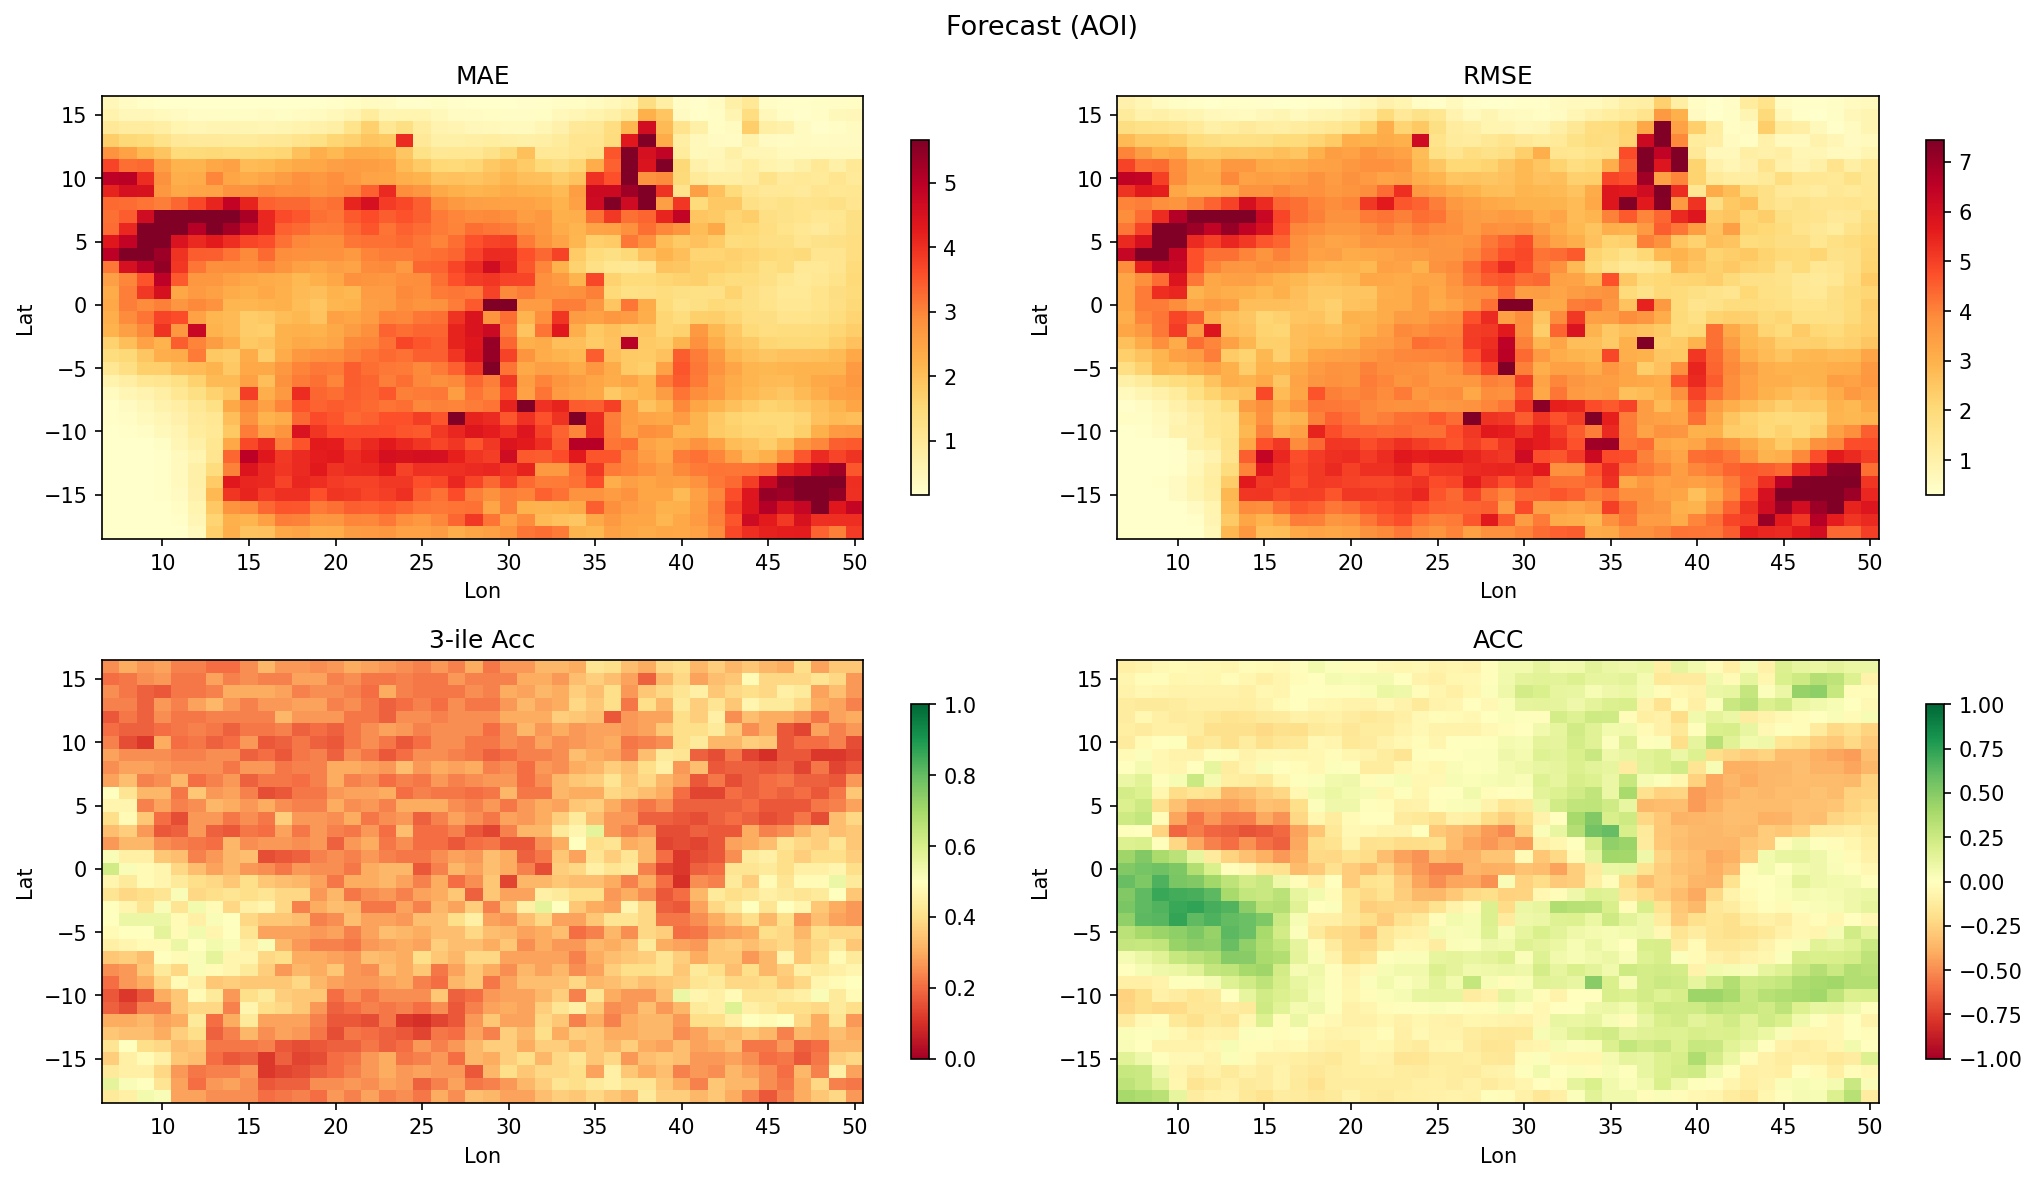
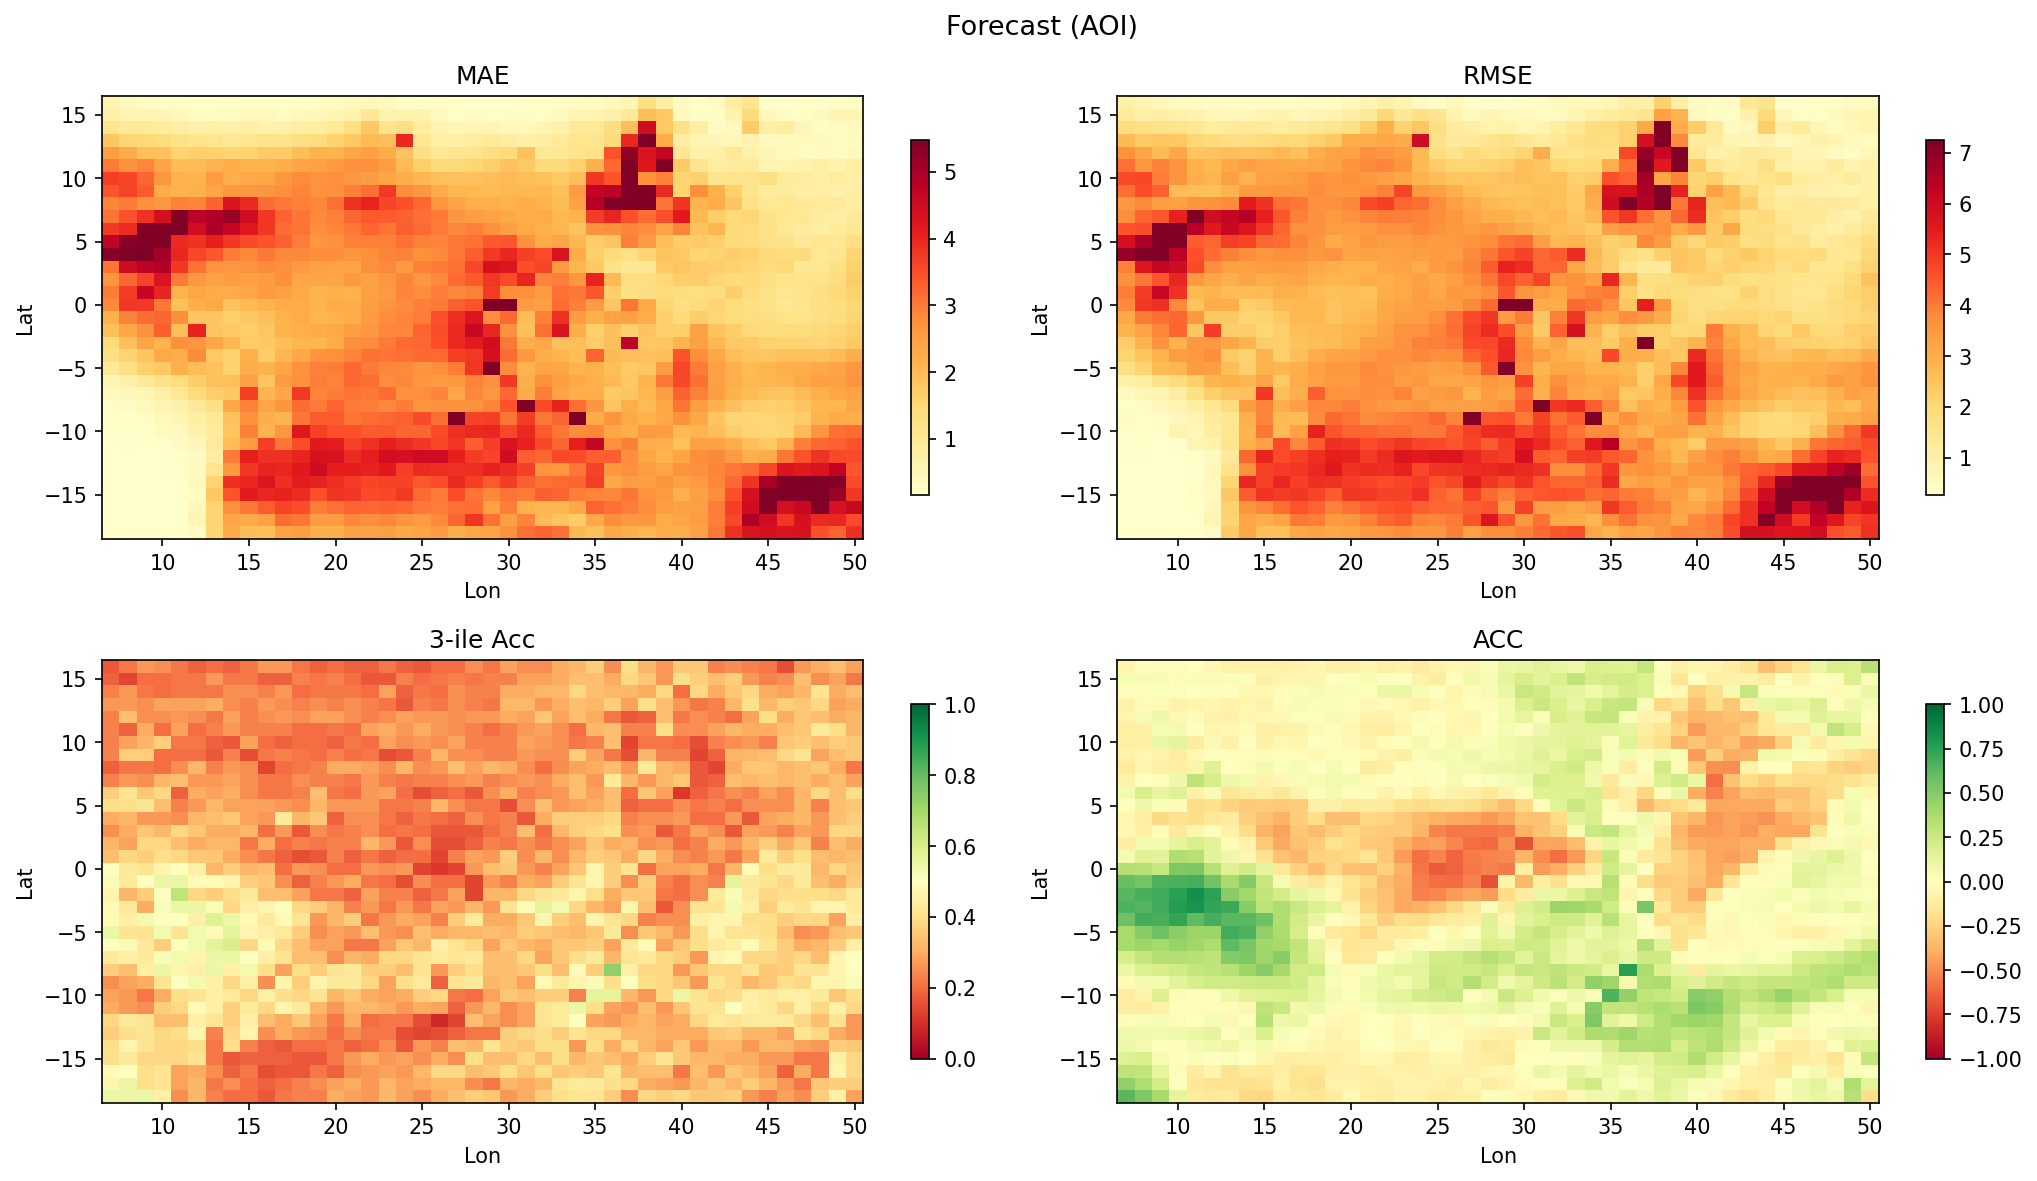
include gini coefficients of each model

diff --git a/predict.py b/predict.py
@@ -13,30 +13,27 @@ model.load_state_dict(torch.load("models/senate.pt"))
 model.eval()
 
 
-def encode(month, y, x):
-    return torch.tensor(
-        [
-            np.sin(2 * np.pi * month / 12),
-            np.cos(2 * np.pi * month / 12),
-            np.sin(2 * np.pi * x / 360),
-            np.cos(2 * np.pi * x / 360),
-            np.sin(np.pi * (y + 90) / 180),
-            np.cos(np.pi * (y + 90) / 180),
-        ],
-        dtype=torch.float32,
-    )
+def encode(month, y, x, ginis):
+    coords = [
+        np.sin(2 * np.pi * month / 12),
+        np.cos(2 * np.pi * month / 12),
+        np.sin(2 * np.pi * x / 360),
+        np.cos(2 * np.pi * x / 360),
+        np.sin(np.pi * (y + 90) / 180),
+        np.cos(np.pi * (y + 90) / 180),
+    ]
+    return torch.tensor(coords + list(ginis), dtype=torch.float32)
 
 
-# month zero-indexed
-def get_weights(month, y, x):
-    x_input = encode(month, y, x).unsqueeze(0)
+def get_weights(month, y, x, ginis):
+    x_input = encode(month, y, x, ginis).unsqueeze(0)
     with torch.no_grad():
         weights = model(x_input).squeeze(0).numpy()
     return weights
 
 
-def forecast(month, y, x, nmme_preds):
-    weights = get_weights(month, y, x)
+def forecast(month, y, x, nmme_preds, ginis):
+    weights = get_weights(month, y, x, ginis)
     return np.dot(weights, nmme_preds)
 
 

diff --git a/get_nmme.py b/get_nmme.py
@@ -3,6 +3,7 @@ Get all model data and save just what we need to .nc files
 """
 
 import xarray as xr
+import numpy as np
 import os
 
 models = [
@@ -39,9 +40,23 @@ def once(mdl):
                 file = pref + str(yr) + "-" + str(mnth).zfill(2) + suf2
                 data = xr.open_dataset(file)
 
-            v = data["prec"].sel(L=3.0).mean(dim="M")
-            # v_std = data["prec"].sel(L=3.0).std(dim="M")
+            mean = data["prec"].sel(L=3.0).mean(dim="M")
 
+            # gini coefficient to quantify uncertainty in a normalised way: https://en.wikipedia.org/wiki/Gini_coefficient
+
+            n_members = data.sizes["M"]
+
+            a = np.zeros_like(mean)
+            for i in range(n_members):
+                for j in range(n_members):
+                    a += np.abs(
+                        data["prec"].sel(L=3.0).isel(M=i)
+                        - data["prec"].sel(L=3.0).isel(M=j)
+                    )
+
+            gini = a / (n_members**2 * 2 * mean)
+
+            v = xr.Dataset({"prec_mean": mean, "prec_gini": gini})
             u.append(v)
 
     da = xr.concat(u, dim="time")

diff --git a/prep.py b/prep.py
@@ -6,7 +6,9 @@ import xarray as xr
 import numpy as np
 
 obs = xr.open_dataset("data/era5_ppt.nc")["tp"]
-pred = xr.open_dataset("data/master.nc")["prec"]
+master = xr.open_dataset("data/master.nc")
+pred = master["prec_mean"]
+gini = master["prec_gini"]
 
 models = [
     "canesm5",
@@ -25,6 +27,8 @@ months = np.arange(T) % 12
 
 obs_np = obs.values[:, 1:-1, :]
 pred_np = pred.sel(model=models).values[:, 1:-1, :, :]
+gini_np = gini.sel(model=models).values[:, 1:-1, :, :]
+gini_np = np.nan_to_num(gini_np)
 
 t_idx, y_idx, x_idx = np.meshgrid(
     np.arange(T), np.arange(179), np.arange(360), indexing="ij"
@@ -51,6 +55,9 @@ X_input = np.stack(
 
 y_obs = obs_np.ravel().astype(np.float32)
 preds = pred_np.reshape(-1, 7).astype(np.float32)
+ginis = gini_np.reshape(-1, 7).astype(np.float32)
+
+X_input = np.hstack([X_input, ginis])
 
 np.savez("data/ml_data.npz", X_input=X_input, y_obs=y_obs, preds=preds)
 print(f"saved {len(y_obs)} samples")

diff --git a/make.py b/make.py
@@ -19,9 +19,9 @@ res = []
 
 
 for m in models:
-    da = xr.open_dataarray("data/" + m + ".nc")
-    da = da.assign_coords(model=m)
-    res.append(da)
+    ds = xr.open_dataset("data/" + m + ".nc")
+    ds = ds.assign_coords(model=m)
+    res.append(ds)
 
 
 combined = xr.concat(res, dim="model").transpose("time", "Y", "X", "model")

diff --git a/train.py b/train.py
@@ -29,7 +29,7 @@ class Senate(nn.Module):
     def __init__(self):
         super().__init__()
         self.net = nn.Sequential(
-            nn.Linear(6, 32),
+            nn.Linear(13, 32),
             nn.ReLU(),
             nn.Linear(32, 16),
             nn.ReLU(),

diff --git a/README.md b/README.md
@@ -4,30 +4,30 @@ Still a lot of improvement to be found + more ideas to test.
 
 ## Global Results
 ```
---- Senate ---
-MAE:        1.3467
-RMSE:       1.7803
-3-ile acc: 0.3529
-ACC:        0.0898
+--- Forecast (global) ---
+MAE:        1.2573
+RMSE:       1.6629
+3-ile acc: 0.3674
+ACC:        0.1459
 
---- Baseline (ensemble) ---
-MAE:        1.5045
-RMSE:       1.9239
-3-ile acc: 0.3188
-ACC:        -0.0263
+--- Baseline (global) ---
+MAE:        1.4727
+RMSE:       1.8747
+3-ile acc: 0.3185
+ACC:        -0.0296
 ```
 
 ## Results in Central Africa AOI
 ```
---- Senate ---
-MAE:        2.4802
-RMSE:       3.3090
-3-ile acc: 0.2995
-ACC:        -0.0117
+--- Forecast (AOI) ---
+MAE:        2.3734
+RMSE:       3.1529
+3-ile acc: 0.3126
+ACC:        0.0105
 
---- Baseline (ensemble) ---
-MAE:        2.9667
-RMSE:       3.7393
-3-ile acc: 0.2502
-ACC:        -0.1735
+--- Baseline (AOI) ---
+MAE:        2.9704
+RMSE:       3.7322
+3-ile acc: 0.2538
+ACC:        -0.1748
 ```
